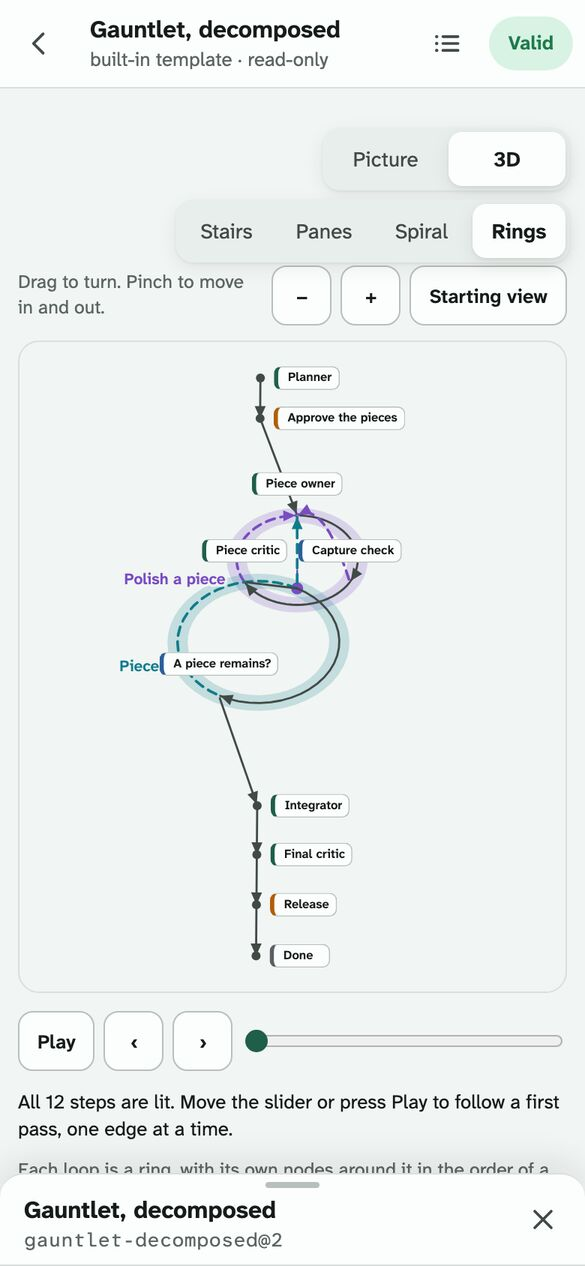
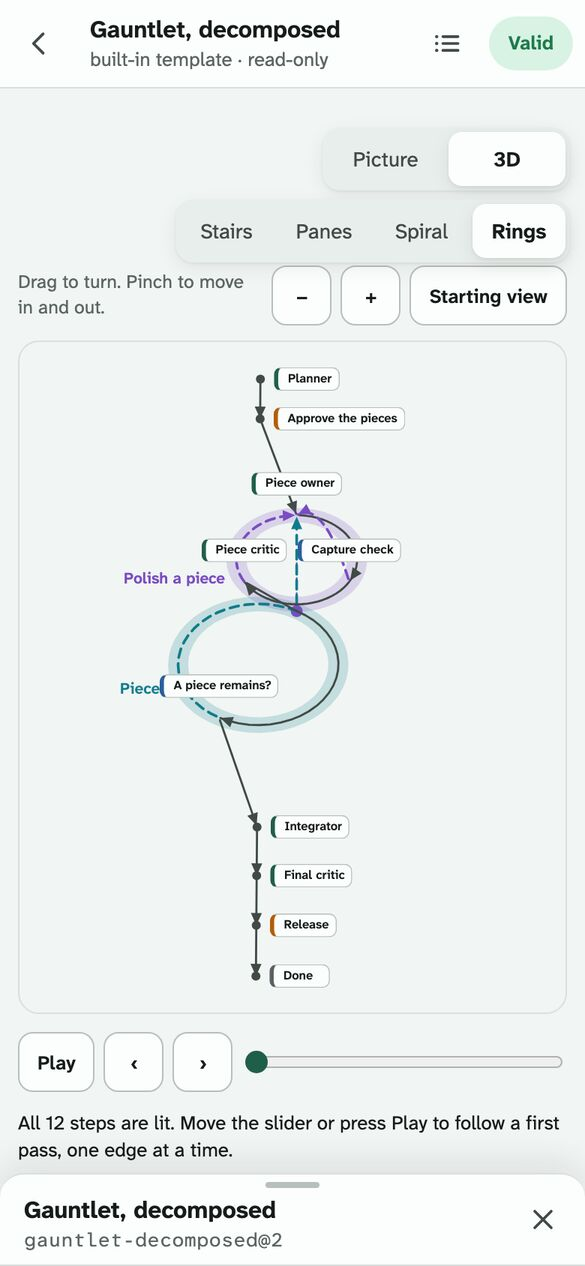
web: rings after a sixth read: a ring of three stations or more stands higher on its outer ring, so its two nearest nodes are seen 42 over its foot whatever its size (Pieces' way back ran through the point Piece critic stood on); what an inner loop's node last named is forgotten when a loop it is in

Changed region(s): [[0.0308, 0.3697, 0.9538, 0.9242], [0.4923, 0.2773, 0.6769, 0.3389]]

diff --git a/apps/web/test/graph-stage.test.ts b/apps/web/test/graph-stage.test.ts
@@ -190,6 +190,11 @@ describe("a recorded run", () => {
     // And a note right after the outer loop's way back is held to the first sign alone, though the inner loop's
     // last way back was never taken (its cap fired, and no note says so): round 0 there is the inner loop's own.
     expect(where(modelOf(nested, skip([["builder", "pass", 0], ["tests", "fail", 0], ["builder", "pass", 1], ["tests", "fail", 1], ["judge", "fail", 0], ["builder", "pass", 0], ["tests", "pass", 0]]))).slice(-2)).toEqual(["builder@grind:0", "tests@grind:0"]);
+    // Nor where the outer loop's way back lands on a node before the inner loop, outside it, and the inner loop's
+    // last way back was never taken (its cap fired, and no note says so): the inner loop has started afresh, and
+    // round 0 at its first node is not held against the 1 it was in before.
+    const lead = { ...nested, nodes: [{ ...nested.nodes.find((n) => n.id === "builder")!, id: "lead" }, ...nested.nodes], edges: [{ id: "e-lead", from: "lead", to: "builder" }, ...nested.edges.map((e) => (e.from === "judge" && e.to === "builder" ? { ...e, to: "lead" } : e))], loops: nested.loops.map((l) => (l.id === "phases" ? { ...l, members: ["lead", ...l.members] } : l)) } as Graph;
+    expect(where(modelOf(lead, skip([["lead", "pass", 0], ["builder", "pass", 0], ["tests", "fail", 0], ["builder", "pass", 1], ["tests", "fail", 1], ["judge", "fail", 0], ["lead", "pass", 1], ["builder", "pass", 0], ["tests", "pass", 0]]))).slice(-3)).toEqual(["lead@phases:1", "builder@grind:0", "tests@grind:0"]);
     // With no sign the number is read as the inner loop's, as the contract's nearest reading has it: a run
     // written the outer way whose outer way back the notes do not show (the judge's verdict where the edge wants
     // an outcome) is drawn as its numbers say.
@@ -1267,7 +1272,8 @@ describe("rings", () => {
     const m = modelOf(GAUNTLET);
     const built = rings(m, whole);
     const [inner, outer] = [ringOf(built.prims, "polish"), ringOf(built.prims, "pieces")];
-    expect([outer.c[1], inner.c[1]]).toEqual([0, 64]);
+    // (64 up, and for a ring of three stations 1.16 of half its radius more: its near nodes are seen 42 over its foot.)
+    expect([outer.c[1], Math.round(inner.c[1]), inner.r]).toEqual([0, 116, 90]);
     expect(outer.r).toBeGreaterThanOrEqual(inner.r + 30);
     // Where the inner ring stands is a place on the outer ring.
     expect(far(outer.c, inner.c)).toBe(Math.round(outer.r));
@@ -1419,13 +1425,14 @@ describe("rings", () => {
     expect(out).toHaveLength(19);
     const beside = out.find((v, n) => n > 0 && (out[n - 1]![2] - near[2]) * (v[2] - near[2]) <= 0)!;
     expect(Math.hypot(beside[0] - near[0], beside[2] - near[2])).toBeGreaterThanOrEqual(50);
-    // No card of a ring that stands on another is drawn over that ring's own foot, as it is seen from where the view
-    // starts (turned half a radian, tipped 0.86): each of its nodes is seen above the foot, or 70 or more to its side
-    // (a card stands over its node, 75 to each side at most). And the turn is the one that does it best: the two
-    // of its nodes nearest the reader are seen as far to one side of the foot as to the other, at one height. On
-    // the templates and fixtures that have one (fresh grind's Tests was 5 from Grind's foot, and Gauntlet's Capture
-    // check right over Polish a piece's, with the outer loop's lines through the foot reading as arriving there),
-    // and on rings of one to six made up.
+    // No card of a ring that stands on another is drawn over that ring's own foot, and the outer loop's lines
+    // through the foot do not read as arriving at one of its nodes, as it is seen from where the view starts
+    // (turned half a radian, tipped 0.86). The turn: the two of its nodes nearest the reader are seen as far to
+    // one side of the foot as to the other, at one height. The height: those two are seen 42 above the foot
+    // whatever the ring's size, as a ring of two's are, and every other node higher. On the templates and
+    // fixtures that have one (fresh grind's Tests was 5 from Grind's foot; Gauntlet's Capture check stood right
+    // over Polish a piece's; and then Pieces' way back ran through the point Piece critic stood on), and on
+    // rings of one to six made up.
     const [cy, sy, cp, sp] = [Math.cos(-0.5), Math.sin(-0.5), Math.cos(0.86), Math.sin(0.86)];
     const seenAt = (p: readonly number[]): [number, number] => [p[0]! * cy + p[2]! * sy, (-p[0]! * sy + p[2]! * cy) * sp - p[1]! * cp];
     const made = [1, 2, 3, 4, 5, 6].map((k) => {
@@ -1440,10 +1447,14 @@ describe("rings", () => {
         const drawn = rings(g, whole);
         for (const loop of g.loops.filter((l) => l.inside)) {
           const { c } = ringOf(drawn.prims, loop.id);
-          const foot = seenAt([c[0], c[1] - 64, c[2]]);
+          const under = drawn.prims.flatMap((p) => (p.t === "dot" && p.r === 4 && far(c, p.at) === 0 ? [p.at] : []));
+          expect(under, `${doc.id} ${loop.id}`).toHaveLength(1);
+          const foot = seenAt(under[0]!);
           const from = loop.own.map((id) => seenAt(drawn.node(id))).map(([x, y]) => [x - foot[0], y - foot[1]] as const).sort((p, q) => q[1] - p[1]);
-          for (const [aside, below] of from) expect(below < 0 || Math.abs(aside) >= 70, `${doc.id} ${loop.id}: ${Math.round(aside)} aside, ${Math.round(below)} below`).toBe(true);
-          if (from.length > 1 && loop.own.length === loop.members.length) expect(Math.abs(from[0]![0] + from[1]![0]) + Math.abs(from[0]![1] - from[1]![1]), `${doc.id} ${loop.id}`).toBeLessThan(0.5);
+          if (from.length > 1 && loop.own.length === loop.members.length) {
+            expect(Math.abs(from[0]![0] + from[1]![0]) + Math.abs(from[0]![1] - from[1]![1]), `${doc.id} ${loop.id}`).toBeLessThan(0.5);
+            expect([Math.round(from[0]![1]), Math.abs(from[0]![0]) > 59.9, from[2] === undefined || from[2][1] < -60], `${doc.id} ${loop.id}`).toEqual([-42, true, true]);
+          }
           // (A ring of one has its node at the far side as seen, straight over the foot and well above it.)
           else if (from.length === 1) expect([Math.round(from[0]![0]), from[0]![1] < -60], `${doc.id} ${loop.id}`).toEqual([0, true]);
           stood += from.length;
@@ -1475,7 +1486,7 @@ describe("rings", () => {
       const g = rings(modelAt(GAUNTLET, places(GAUNTLET), undefined, narrowly), whole);
       const gate = g.node("decomposition-gate");
       const nearest = Math.min(...["owner", "capture-check", "critic"].map((id) => g.node(id)[2] - 0.86 * g.node(id)[1] - gate[2]));
-      expect([g.node("owner")[1], gate[1]], String(narrowly)).toEqual([64, 0]);
+      expect([Math.round(g.node("owner")[1]), gate[1]], String(narrowly)).toEqual([116, 0]);
       expect(nearest, String(narrowly)).toBeGreaterThanOrEqual(140);
     }
     // An edge from the outermost of three rings to a node of the innermost goes along the outer ring to the place

diff --git a/apps/web/src/ui/canvas/stage/rings.ts b/apps/web/src/ui/canvas/stage/rings.ts
@@ -33,8 +33,13 @@ export const rings = ({ arch, by, card, circle, edgeLine, ground, hue, stations,
   };
   // How far a ring and all that stands on it reach from its middle.
   const reach = (loop: MLoop): number => R(loop) + Math.max(0, ...m.loops.filter((l) => l.inside === loop.id).map(reach));
+  // How high a ring stands on another: 64, and more for one of three stations or more, so that its two nodes
+  // nearest the reader are seen as far above its foot as a ring of two's are (42), and the outer loop's lines
+  // through that foot pass well under them. (From where the view starts a height is seen as 0.65 of itself up the
+  // frame, and a node at the near side of a ring as 0.76 of the ring's radius down it.)
+  const high = (loop: MLoop): number => 64 + Math.max(0, 1.16 * R(loop) * Math.cos(Math.PI / stations(m, loop).length));
   // A station's place on its ring: the first at the far side, and on round to the right. A ring that stands on
-  // another is turned from that, by less than half a station either way: it is drawn 64 higher, so from where the
+  // another is turned from that, by less than half a station either way: it is drawn higher, so from where the
   // view starts (turned half a radian) the card of a node at the side of it nearest the reader is drawn over the
   // ring's own foot, and the outer loop's lines through that foot read as arriving at the node. It is turned so
   // that the nearest side is midway between two of its stations.
@@ -56,7 +61,7 @@ export const rings = ({ arch, by, card, circle, edgeLine, ground, hue, stations,
       if (stop.node) ((at[stop.node] = p), prims.push(card(by(m.nodes, stop.node), p, { stand: true, small: m.narrow })));
       else if (stop.loop) {
         // A loop inside this one: a ring of its own, standing on this ring where its nodes would be.
-        const up: V = [p[0], p[1] + 64, p[2]];
+        const up: V = [p[0], p[1] + high(stop.loop), p[2]];
         prims.push({ t: "line", pts: [p, up], stroke: hue(m, stop.loop.id), w: 1.2, dash: [2, 3] }, { t: "dot", at: p, r: 4, fill: hue(m, stop.loop.id), lift: -3990 });
         place(stop.loop, up);
       }
@@ -75,10 +80,10 @@ export const rings = ({ arch, by, card, circle, edgeLine, ground, hue, stations,
     else if (item.loop) {
       // Room for the ring and for every ring that stands on it, and for the card of its first station, which
       // stands over where the node before the ring would otherwise be: no node on the ground is inside a ring.
-      // More where its first station is a ring of its own: that ring's cards are drawn 64 higher, which from where
-      // the view starts is over ground 55 farther back, toward the node before the ring.
+      // More where its first station is a ring of its own: that ring's cards are drawn higher, which from where
+      // the view starts is over ground 0.86 of that farther back, toward the node before the ring.
       const r = reach(item.loop) + 6;
-      const raised = (loop: MLoop): number => ((first) => (first ? 55 + raised(first) : 0))(stations(m, loop)[0]?.loop);
+      const raised = (loop: MLoop): number => ((first) => (first ? 0.86 * high(first) + raised(first) : 0))(stations(m, loop)[0]?.loop);
       z += z ? 56 + raised(item.loop) : 0;
       place(item.loop, [(z + r) * lean, 0, z + r]);
       z += 2 * r + 58;

diff --git a/apps/web/src/ui/canvas/stage/model.ts b/apps/web/src/ui/canvas/stage/model.ts
@@ -190,10 +190,12 @@ export function modelOf(doc: Graph, places: Record<Id, { x: number; y: number }>
       if (!focus || !note) continue;
       if (focus.kind === "node" && is(focus.id)) {
         const own = innermost(focus.id);
+        // (A loop that comes round, at whichever of its nodes, starts each loop inside it afresh: what was named
+        // there before is no longer what the next number is held against.)
+        const back = first.into(focus.id).flatMap((e) => (e.back ? [e.back] : []));
+        for (const l of loops) if (back.some((id) => inside(l.id, id))) delete before[l.id];
         if (own && inner(own) && note.round !== undefined) {
-          const back = first.into(focus.id).flatMap((e) => (e.back ? [e.back] : []));
-          const outer = back.some((id) => inside(own, id));
-          others ||= outer ? note.round !== 0 : back.includes(own) && note.round <= (before[own] ?? -1);
+          others ||= back.some((id) => inside(own, id)) ? note.round !== 0 : back.includes(own) && note.round <= (before[own] ?? -1);
           said[own] = before[own] = note.round;
         }
         first.at(focus.id, { round: null, outcome: note.outcome ?? null, verdict: note.verdict ?? null, open: note.outcome === "started" });

diff --git a/docs/exports.md b/docs/exports.md
@@ -64,9 +64,9 @@ A tap on a card does what a tap on its node does on the canvas. The canvas keeps
 
 - **Spiral.** Each loop is a spiral: a round is one turn upward, and a brake that counts rounds is a place on the way up. The lid stands where max iterations stops the loop: over the last round it allows (rounds number from 0, so a cap of 5 is a lid over round 4). A person asked every so many rounds is an amber ring after each of those rounds, for each such stop a loop has; at the lid's own height there is one, inside the lid, only where the person's stop is listed before the cap, since the stops are looked at in the document's order, and where that leaves a stop with no ring the words say why. A budget in dispatches is a dashed ring where it runs out if every round is a full one, counted as the compiler tells a lead to count a round. It is a reading, not a ceiling: a round cut short costs less and one with a second dispatch more; it is said as "at most" so many full rounds, and drawn where it is no more than a round and a half over the top of the drawing. Every brake of a loop is said in words under the view, in the document's order, where a screen reader has them too: the tightest cap as the lid, the least budget in dispatches as the ring, and one with no place on the way up (a budget in minutes, turns or dollars; a person who is not asked by the round) as having none. A loop inside another is a spiral of its own beside it, because its rounds start afresh each time the outer one comes round; a node two loops share without one being inside the other stands on one of them (the smaller, or the first in the document) and is named at its place on the other. The stations of a turn are a loop's nodes in the order of a first pass; an edge from one station to the next is the spiral itself, and every other edge between a loop's nodes (a fan out, a fan in) is drawn across it. On a run's page each spiral is solid as far up as the run has been, says the round the run is in there, and has a bead for each dispatch so far in the round it was in, green for a pass, amber for a fail and gray for anything else; two dispatches at one place, which a loop that started afresh has, are set side by side. An edge the run took is drawn between the rounds it took it, as often as it took it, and one it never took is faint; a way back that crosses from one loop's spiral to another's, through a node the two share, arrives in the round that loop is in. A note about an edge lights the edge where it is drawn and is not shown as a move, and two notes of one visit to a node, the first not yet ended, are not a move either. Which loop a note's round is, for a node in a loop inside another, is the stage's to say (below): the number is the inner loop's unless the run's own loop notes show the lead wrote another loop's there. Where a note names no round, or its number is not read, the round is worked out from the edge taken: a loop's way back is its next round, wherever in the loop it lands, and every loop inside it, at any depth, starts again at round 0. A way back that is another loop's does not turn a spiral it only crosses. (The sentence over a whole run ends with core's own line, which counts a loop's rounds by its loop notes, the rounds that have ended; the words over a spiral are the round the run is in, which is one more while a round is under way, and for a run whose notes name no round the two can differ further.) The lid is never lit with its loop: looking at a loop fires no cap. A node in no loop stands on the ground by its name alone, and a graph with no loop has no spiral and says so. In a frame a phone's width (under 640 px: the frame's own width, so a wide window with a template's details beside the view counts, and the layout follows the frame when a panel opens beside it) the spirals stand one under the other, a loop inside another above the loop it is inside and otherwise in the order of a first pass, with the nodes in no loop in the same line above and under them. Two spirals side by side leave each half the frame, and cards do not shrink with them. Every card there is its name alone, as wide as its name (a person's step keeps its line under the name, "Person" and its role: every view says whose step it is), and a tap opens the node as anywhere (a graph with no loop is a column of whole cards, which it has room for); a loop inside another is named at its place as "the spiral above". Stacked, over is along the line, so an edge between a spiral and what is outside it, or between nodes on the ground, goes out to the side instead: round the nodes on the ground between its ends, to the left, where no card stands; round the top of any spiral it passes, lid and turns, so that no edge comes down through a lid; and round the foot of its own spiral where it leaves from a turn or more up, so that an exit taken in a later round comes down outside the turns under it. The side is that of its own end on such a spiral, and the left where a node on the ground is between its ends. (Such an edge can run behind a card that is not its own for part of its way, as Gauntlet's way back from "A piece remains?" does behind Capture check.) Two edges between the same two nodes, where they are drawn across and not along the spiral, are drawn one past the other, in either layout. The frame is made tall enough to leave 7 px between any two cards where its width and its cap let it: at 390 by 844 no two cards of any built-in template touch, and at 360 by 740 two templates are at the margin (Gauntlet, decomposed reaches the cap on the frame's height, and the specialist critic bank has seven cards round one turn in 336 px) and may touch in one browser's text. The spirals, lids and edges are grown once the cards have landed; a reader who asked for less motion has them at once.
 
-- **Rings.** Each loop is a ring lying flat, with its own nodes standing round it in the order of a first pass, the first of them at the far side. (For a loop that fans out, the nodes that run side by side are still in a row round the ring: the order is the layout's, not an order of running.) A loop inside another is a ring of its own standing on the outer one, where its nodes would be: the outer round passes through it. Such a ring is turned from the far side, by less than half a station either way, so that the side of it nearest the reader as the view starts is midway between two of its stations: it is drawn higher, so the card of a node at that side would be drawn over the ring's own foot, and the outer loop's lines through the foot would read as arriving at that node. Turned so, every node of a ring of up to three is seen above its foot, and the two nearest of a larger one 70 or more to either side of it; two that stand on one ring stand clear of each other. A node two loops share stands on one of them and is named at its place on the other. What is in no loop stands in a line on the ground in the order of a first pass, by its name alone where there is a loop, and the rings lie along that line where the graph comes to them. The line runs straight away from the reader, which the view's first turn draws slanting across the frame; in a frame a phone's width, which has height to spare and no width, the line leans the other way by as much and is drawn straight up the frame. An edge from one station to the next is the ring itself; a loop's own way back from its last station to its first is the rest of the ring, which is what closes it; any other edge is drawn across, a way back that cuts the round short as an arch and a fan out as a line, and an edge that would run through a node it has nothing to do with, seen from above, on the ground or on a ring or under a ring that stands on one, goes out to the side round it, by the room a card takes there (62 where it stands over its node on a ring, 34 on the ground; to the left of a line on the ground, whichever way the edge runs: a card there is to its node's right); a node counts where the straight line passes within all but the last 6 of that room of it, on the line or not; and once bowed the edge is looked at again for what it has been brought to. A node's own edge to itself, where it is not the whole ring, is a small round beside the node. Every edge is drawn, and two between the same two nodes are drawn apart: the second outside the first on a ring, or higher. A ring has no height for rounds, and none of a loop's brakes is drawn on it: on a run's page a ring says, beside it, the round the run is in or was last in (one more than the rounds that have ended while a round is under way, as the spiral's words are), and an edge the run has not taken by the note the slider is at is faint. In a frame a phone's width every card of a graph with a loop is its name alone, as in the spiral (a graph with no loop is a line of whole cards). As a template's page first opens at 390 by 844 or at 360 by 740, no card of any built-in template lies over another. Where a loop's note does not name the stop that fired, a way back whose condition was reported is read as taken, as the notes leave it.
+- **Rings.** Each loop is a ring lying flat, with its own nodes standing round it in the order of a first pass, the first of them at the far side. (For a loop that fans out, the nodes that run side by side are still in a row round the ring: the order is the layout's, not an order of running.) A loop inside another is a ring of its own standing on the outer one, where its nodes would be: the outer round passes through it. Such a ring is turned from the far side, by less than half a station either way, so that the side of it nearest the reader as the view starts is midway between two of its stations: it is drawn higher, so the card of a node at that side would be drawn over the ring's own foot, and the outer loop's lines through the foot would read as arriving at that node. And it stands 64 high, higher for a ring of three stations or more, so that those two nearest nodes are seen as far above its foot whatever its size (42, as a ring of two's are) and every other node higher: the outer loop's lines through the foot pass well under them all; two that stand on one ring stand clear of each other. A node two loops share stands on one of them and is named at its place on the other. What is in no loop stands in a line on the ground in the order of a first pass, by its name alone where there is a loop, and the rings lie along that line where the graph comes to them. The line runs straight away from the reader, which the view's first turn draws slanting across the frame; in a frame a phone's width, which has height to spare and no width, the line leans the other way by as much and is drawn straight up the frame. An edge from one station to the next is the ring itself; a loop's own way back from its last station to its first is the rest of the ring, which is what closes it; any other edge is drawn across, a way back that cuts the round short as an arch and a fan out as a line, and an edge that would run through a node it has nothing to do with, seen from above, on the ground or on a ring or under a ring that stands on one, goes out to the side round it, by the room a card takes there (62 where it stands over its node on a ring, 34 on the ground; to the left of a line on the ground, whichever way the edge runs: a card there is to its node's right); a node counts where the straight line passes within all but the last 6 of that room of it, on the line or not; and once bowed the edge is looked at again for what it has been brought to. A node's own edge to itself, where it is not the whole ring, is a small round beside the node. Every edge is drawn, and two between the same two nodes are drawn apart: the second outside the first on a ring, or higher. A ring has no height for rounds, and none of a loop's brakes is drawn on it: on a run's page a ring says, beside it, the round the run is in or was last in (one more than the rounds that have ended while a round is under way, as the spiral's words are), and an edge the run has not taken by the note the slider is at is faint. In a frame a phone's width every card of a graph with a loop is its name alone, as in the spiral (a graph with no loop is a line of whole cards). As a template's page first opens at 390 by 844 or at 360 by 740, no card of any built-in template lies over another. Where a loop's note does not name the stop that fired, a way back whose condition was reported is read as taken, as the notes leave it.
 
-These kinds are drawn on a 2D canvas by one small stage, with no library, and each node's card is a real element placed over the drawing, so a card can be tapped, focused and named as on the stairs. A person's step (amendment A-020) says whose it is on its card, as the picture does: "Person" before its role, no tier and no effort, with the edge a human gate's card has; an agent's card is its role, tier and effort as before. Their slider walks the edges of a first pass and then each way back into a loop, in the stairs' own words, or a run's own notes. Which edges a run took is read from its notes as the contract has a run go: every edge out of a node whose condition is what the node reported, or that has none, is taken, so a node that fans out reaches each of its targets and one that fans in is reached by each of its sources, from every node that has reported a result since the target was last reached; the line before a dispatch is not a result, whether or not the notes carry stamps, and neither it nor a word at a node is a report: it takes back nothing the node reported, and no edge is taken on it; a dispatch is a note at an agent or a check with an outcome, so a word, a proposal or an amendment at a node is not one, and neither is a result at a person's step, which no dispatch made (it is a stop of the slider all the same, and is not counted in a full round); a stop is looked at before a way back, so where a loop's note names the stop that fired its way back was not taken, but for a person's stop, which their answer lifts for the dispatch that comes next and for nothing after it (a word at a node between does not spend it, and a run that ends at the halt took no way back); a second `invalid-evidence` in a row in one round routes as a fail; and where no edge is for what was reported, none is shown as taken. A plain note at an edge is the lead's word that the run is on it and is shown at the edge; a proposal or an amendment about an edge is said not to be a move. Where a lead wrote the run's end as a note about the run and none at the stop node, the run's end note shows the arrival there. A round is said by its loop's name, and a dispatch at a node in no loop is in none. A note's round is its loop's: a loop's own note names that loop's, and a note at a node its innermost loop's. A node in a loop inside another is in a round of each, the contract's one number does not say which, and leads have written the outer loop's there as well as the inner one's. Three signs in the run's own notes tell the two apart, each as early as it can matter, so that a run still going is not drawn one way and then changed: an inner loop starts afresh when the loop it is inside comes round, so a note at one of its nodes right after that way back that names a round other than 0 is not naming the inner loop's; a loop's own way back is its next round, so a note at one of its nodes right after that way back, and no outer one, that names no higher a round than the loop's node before it is not naming it either; and a loop's own note names the round just finished, so one that names a higher round than its node's note just before it shows the node's number was not that loop's (a lower one shows nothing: a loop's note may be written late). In a run with any of them the number at a node of an inner loop is not read; with none it is read as the inner loop's. There, and wherever a note names no round, each loop's round is worked out from the ways back the run took: a loop's way back is its next round, and every loop inside it starts afresh. What a step moves along is seen to travel over the cards when the slider goes on by one, and is then the lit card; a reader who asked for less motion sees the lit card at once. A group's nesting is read as core reads it (a node listed by a group and by one inside it is the inner one's). A note about the run as a whole, or about an edge, is said in the note's own words and is not shown as a move. The stage, Panes and the spiral are one piece of the app (`src/ui/canvas/graph-stage.tsx`), fetched when one of these kinds is first chosen and named in the page so the service worker holds it; like the stairs they are Paper in every picture theme. The kinds that piece has no room for are a second piece beside it (`src/ui/canvas/graph-more.tsx`: Rings, and Columns with it; for each, how it places the graph, its sentence and what it says under itself), fetched with the stage when one of them is chosen and drawn with the stage's shapes, which the stage hands it; if it cannot be fetched the page says so and the view that was up stays. Neither piece is on any address's first load, and each has a line of its own in `scripts/perf-budget.json`: 17 KB for the stage, and 4 for the second piece; the switch and the graph's reading, which every address that draws on the canvas fetches once the canvas is drawn, has one too, at 6.
+These kinds are drawn on a 2D canvas by one small stage, with no library, and each node's card is a real element placed over the drawing, so a card can be tapped, focused and named as on the stairs. A person's step (amendment A-020) says whose it is on its card, as the picture does: "Person" before its role, no tier and no effort, with the edge a human gate's card has; an agent's card is its role, tier and effort as before. Their slider walks the edges of a first pass and then each way back into a loop, in the stairs' own words, or a run's own notes. Which edges a run took is read from its notes as the contract has a run go: every edge out of a node whose condition is what the node reported, or that has none, is taken, so a node that fans out reaches each of its targets and one that fans in is reached by each of its sources, from every node that has reported a result since the target was last reached; the line before a dispatch is not a result, whether or not the notes carry stamps, and neither it nor a word at a node is a report: it takes back nothing the node reported, and no edge is taken on it; a dispatch is a note at an agent or a check with an outcome, so a word, a proposal or an amendment at a node is not one, and neither is a result at a person's step, which no dispatch made (it is a stop of the slider all the same, and is not counted in a full round); a stop is looked at before a way back, so where a loop's note names the stop that fired its way back was not taken, but for a person's stop, which their answer lifts for the dispatch that comes next and for nothing after it (a word at a node between does not spend it, and a run that ends at the halt took no way back); a second `invalid-evidence` in a row in one round routes as a fail; and where no edge is for what was reported, none is shown as taken. A plain note at an edge is the lead's word that the run is on it and is shown at the edge; a proposal or an amendment about an edge is said not to be a move. Where a lead wrote the run's end as a note about the run and none at the stop node, the run's end note shows the arrival there. A round is said by its loop's name, and a dispatch at a node in no loop is in none. A note's round is its loop's: a loop's own note names that loop's, and a note at a node its innermost loop's. A node in a loop inside another is in a round of each, the contract's one number does not say which, and leads have written the outer loop's there as well as the inner one's. Three signs in the run's own notes tell the two apart, each as early as it can matter, so that a run still going is not drawn one way and then changed: an inner loop starts afresh when the loop it is inside comes round, so a note at one of its nodes right after that way back that names a round other than 0 is not naming the inner loop's; a loop's own way back is its next round, so a note at one of its nodes right after that way back, and no outer one, that names no higher a round than the loop's node before it is not naming it either; and a loop's own note names the round just finished, so one that names a higher round than its node's note just before it shows the node's number was not that loop's (a lower one shows nothing: a loop's note may be written late). (What an inner loop's node last named is forgotten when a loop it is inside comes round, at whichever node that way back lands.) In a run with any of them the number at a node of an inner loop is not read; with none it is read as the inner loop's. There, and wherever a note names no round, each loop's round is worked out from the ways back the run took: a loop's way back is its next round, and every loop inside it starts afresh. What a step moves along is seen to travel over the cards when the slider goes on by one, and is then the lit card; a reader who asked for less motion sees the lit card at once. A group's nesting is read as core reads it (a node listed by a group and by one inside it is the inner one's). A note about the run as a whole, or about an edge, is said in the note's own words and is not shown as a move. The stage, Panes and the spiral are one piece of the app (`src/ui/canvas/graph-stage.tsx`), fetched when one of these kinds is first chosen and named in the page so the service worker holds it; like the stairs they are Paper in every picture theme. The kinds that piece has no room for are a second piece beside it (`src/ui/canvas/graph-more.tsx`: Rings, and Columns with it; for each, how it places the graph, its sentence and what it says under itself), fetched with the stage when one of them is chosen and drawn with the stage's shapes, which the stage hands it; if it cannot be fetched the page says so and the view that was up stays. Neither piece is on any address's first load, and each has a line of its own in `scripts/perf-budget.json`: 17 KB for the stage, and 4 for the second piece; the switch and the graph's reading, which every address that draws on the canvas fetches once the canvas is drawn, has one too, at 6.
 
 It costs an address that draws on the canvas the few lines that ask for the switch. The switch and the graph's reading are a piece of their own, fetched once a canvas is up; the scene is the map's piece, fetched when the stairs are first shown; both are asked for through `piece()` and named by the page, so the service worker holds them.
 
